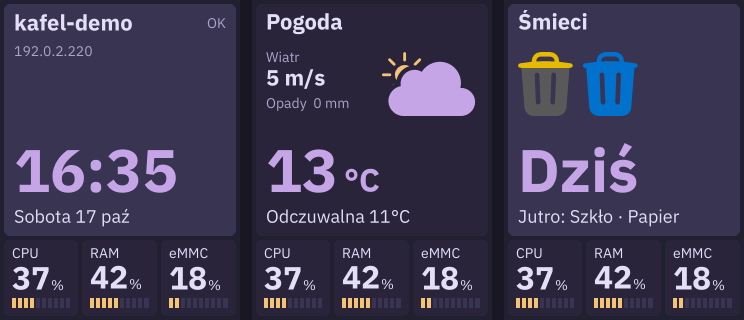
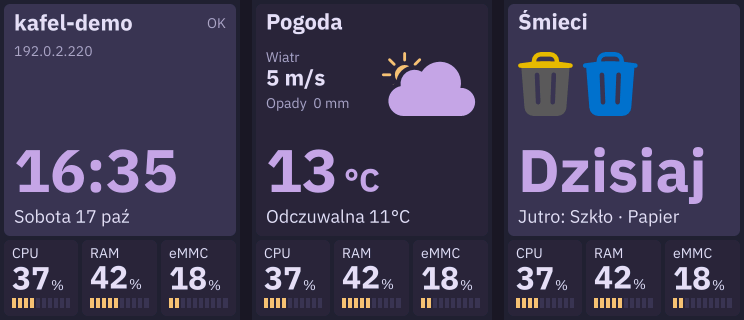
Use Dzisiaj on the waste tile and refresh preview images

Changed region(s): [[0.8347, 0.4375, 0.9583, 0.6562]]

diff --git a/apps/dashboard/tests/readable_typography_test.cpp b/apps/dashboard/tests/readable_typography_test.cpp
@@ -53,9 +53,12 @@ void test_readable_typography() {
     }
     const auto hero_style = theme.clock_number;
     ui::TextFont hero({ui_sans_bold_data(), ui_sans_bold_size()},
-                      "DziśJutroBrak0123456789 sty lut mar kwi maj cze lip sie wrz paź lis gru",
+                      "DzisiajJutroBrak0123456789 sty lut mar kwi maj cze lip sie wrz paź lis gru",
                       std::array{hero_style});
-    check(hero_style.em_px == kafel::LargeTileLayout::value_size && hero.measure("Dziś", hero_style) <= 212 &&
+    check(hero_style.em_px == kafel::LargeTileLayout::value_size &&
+              hero.measure("Dzisiaj", hero_style) <= 212 &&
+              hero.ink_bounds("Dzisiaj", hero_style).x + hero.ink_bounds("Dzisiaj", hero_style).width <=
+                  212 &&
               hero.measure("Jutro", hero_style) <= 212,
           "both waste captions fit at the exact 60px clock and temperature size");
     check(hero_style.em_px == 60, "clock, temperature and waste share a fixed 60px role");

diff --git a/apps/waste/tests/waste_test.cpp b/apps/waste/tests/waste_test.cpp
@@ -35,7 +35,7 @@ int main() {
     auto current = tile(dashboard_tiles(&schedule, today));
     check(current.get("attention") == Json(true) && current.get("state") == Json("ok"),
           "pickup attention independent from ok state");
-    check(current.get("content").get("data").get("caption") == Json("Dziś"), "approved titlecase caption");
+    check(current.get("content").get("data").get("caption") == Json("Dzisiaj"), "approved titlecase caption");
     check(current.get("content").get("data").get("fractions") == Json("Jutro: Szkło"),
           "today card announces tomorrow without rotating bins or title");
     const Schedule only_tomorrow{"UTC", {{today + std::chrono::days(1), 4}}};

diff --git a/apps/waste/tests/integration.py b/apps/waste/tests/integration.py
@@ -27,7 +27,7 @@ with tempfile.TemporaryDirectory(prefix='kwaste-',dir='/tmp') as directory:
             for tiles in snapshots:
                 tile=tiles[0]
                 assert tile['title']=='Śmieci' and tile['state']=='ok' and tile['attention']
-                assert tile['content']['data']['caption']=='Dziś'
+                assert tile['content']['data']['caption']=='Dzisiaj'
                 assert tile['content']['data']['fractions']=='Jutro: Szkło'
                 assert 'month' not in tile['content']['data']
                 graphic=resources[tile['content']['data']['illustration']][1].decode()

diff --git a/apps/dashboard/tests/card_test.cpp b/apps/dashboard/tests/card_test.cpp
@@ -274,7 +274,7 @@ void test_cards() {
               "mixed bin lid renders yellow");
     }
     auto waste_template = parse(waste.resources.at(waste.template_id)->bytes);
-    Json waste_data(Object{{"caption", Json("Dziś")},
+    Json waste_data(Object{{"caption", Json("Dzisiaj")},
                            {"fractions", Json("Jutro: Zmieszane · Papier · Tworzywa · Kuchenne · Ogród")},
                            {"illustration", Json(waste.svg.at("61"))}});
     auto waste_source = [&](std::string_view id) -> std::string_view {

diff --git a/apps/waste/src/packet.cpp b/apps/waste/src/packet.cpp
@@ -50,7 +50,7 @@ dash5::Json dashboard_document(const Schedule *schedule, Date today, bool failed
         unsigned fractions = 0;
         if (selected) {
             if (selected->when == Selection::When::Today) {
-                caption = "Dziś";
+                caption = "Dzisiaj";
                 fractions = selected->day.fractions;
                 names = next_pickup(selected->next, today);
             } else {

diff --git a/apps/waste/README.md b/apps/waste/README.md
@@ -1,7 +1,7 @@
 # kafel-waste
 
 Demon C++ czyta lokalny harmonogram i publikuje duży kafel „Śmieci” przez
-DASH/5: własne kolorowe SVG kubłów i podpis Dziś/Jutro lub dzień i skrót miesiąca najbliższego
+DASH/5: własne kolorowe SVG kubłów i podpis Dzisiaj/Jutro lub dzień i skrót miesiąca najbliższego
 odbioru. Dashboard nie zna frakcji ani reguł kalendarza.
 
 ## Dane i konfiguracja
@@ -49,14 +49,14 @@ Widok pozostaje stały między zmianami daty lub harmonogramu:
 
 | Sytuacja | Główna wartość | Kubły | Dolny wiersz |
 |---|---|---|---|
-| Dziś/jutro bez odbioru | dzień + skrót miesiąca | brak | frakcje najbliższego odbioru |
+| Dzisiaj/jutro bez odbioru | dzień + skrót miesiąca | brak | frakcje najbliższego odbioru |
 | Brak odbioru dziś, odbiór jutro | Jutro | jutrzejsze | jutrzejsze frakcje |
-| Odbiór dziś, następny jutro | Dziś | dzisiejsze | `Jutro: frakcje` |
-| Odbiór dziś, następny później | Dziś | dzisiejsze | `20 paź: frakcje` |
-| Odbiór dziś, bez dalszych terminów | Dziś | dzisiejsze | `Brak kolejnych terminów` |
+| Odbiór dziś, następny jutro | Dzisiaj | dzisiejsze | `Jutro: frakcje` |
+| Odbiór dziś, następny później | Dzisiaj | dzisiejsze | `20 paź: frakcje` |
+| Odbiór dziś, bez dalszych terminów | Dzisiaj | dzisiejsze | `Brak kolejnych terminów` |
 
 Długi dolny wiersz przewija dashboard, bez zmiany głównej wartości ani ikon.
-Heartbeat nie przełącza Dziś/Jutro. Flaga attention jest ustawiana dla dzisiejszego
+Heartbeat nie przełącza Dzisiaj/Jutro. Flaga attention jest ustawiana dla dzisiejszego
 lub jutrzejszego odbioru. Brak przyszłych terminów daje warning `Brak terminów`;
 brak harmonogramu daje error/missing bez starej treści.
 
@@ -95,7 +95,7 @@ pełny tekst; przesuwanie pozostaje odpowiedzialnością ogólnego renderera UI.
 Ilustracje korzystają z **Heroicons Trash Solid**, Tailwind Labs, MIT. Oryginał,
 wersja i licencja: `vendor/heroicons`. Sylwetki zachowują proporcje i mają 64 px
 wysokości przy maksymalnie trzech frakcjach; większa grupa skaluje się proporcjonalnie
-do szerokości kafla. `caption` zawiera cały główny napis: „Dziś”, „Jutro”
+do szerokości kafla. `caption` zawiera cały główny napis: „Dzisiaj”, „Jutro”
 albo np. „17 paź”. Całość ma stałe 60 px, bez osobnego pola miesiąca
 i zmiany rozmiaru jego czcionki.
 

diff --git a/docs/architecture.md b/docs/architecture.md
@@ -168,8 +168,8 @@ Parametry boot są częścią transakcji instalatora, nie pętli UI.
 
 Widok systemowy i usługi używają tego samego Sans Regular/Bold. NumberFont
 jest adapterem TrueType, nie osobnym geometrycznym fontem. Cyfry mają stałe
-komórki, a słowa Dziś/Jutro pozostają proporcjonalne w tym samym kroju.
-Zegar, temperatura i Dziś/Jutro mają 60 px oraz wspólną linię bazową 192. Nagłówki mają 22 px, a podpisy 18 px i linię bazową 223.
+komórki, a słowa Dzisiaj/Jutro pozostają proporcjonalne w tym samym kroju.
+Zegar, temperatura i Dzisiaj/Jutro mają 60 px oraz wspólną linię bazową 192. Nagłówki mają 22 px, a podpisy 18 px i linię bazową 223.
 
 TextFont::ink_bounds uwzględnia overshoot, dzięki czemu clipping opadających
 cyfr nie zmienia rastra przy przejściu do widoku statycznego. Jednostki metryk
